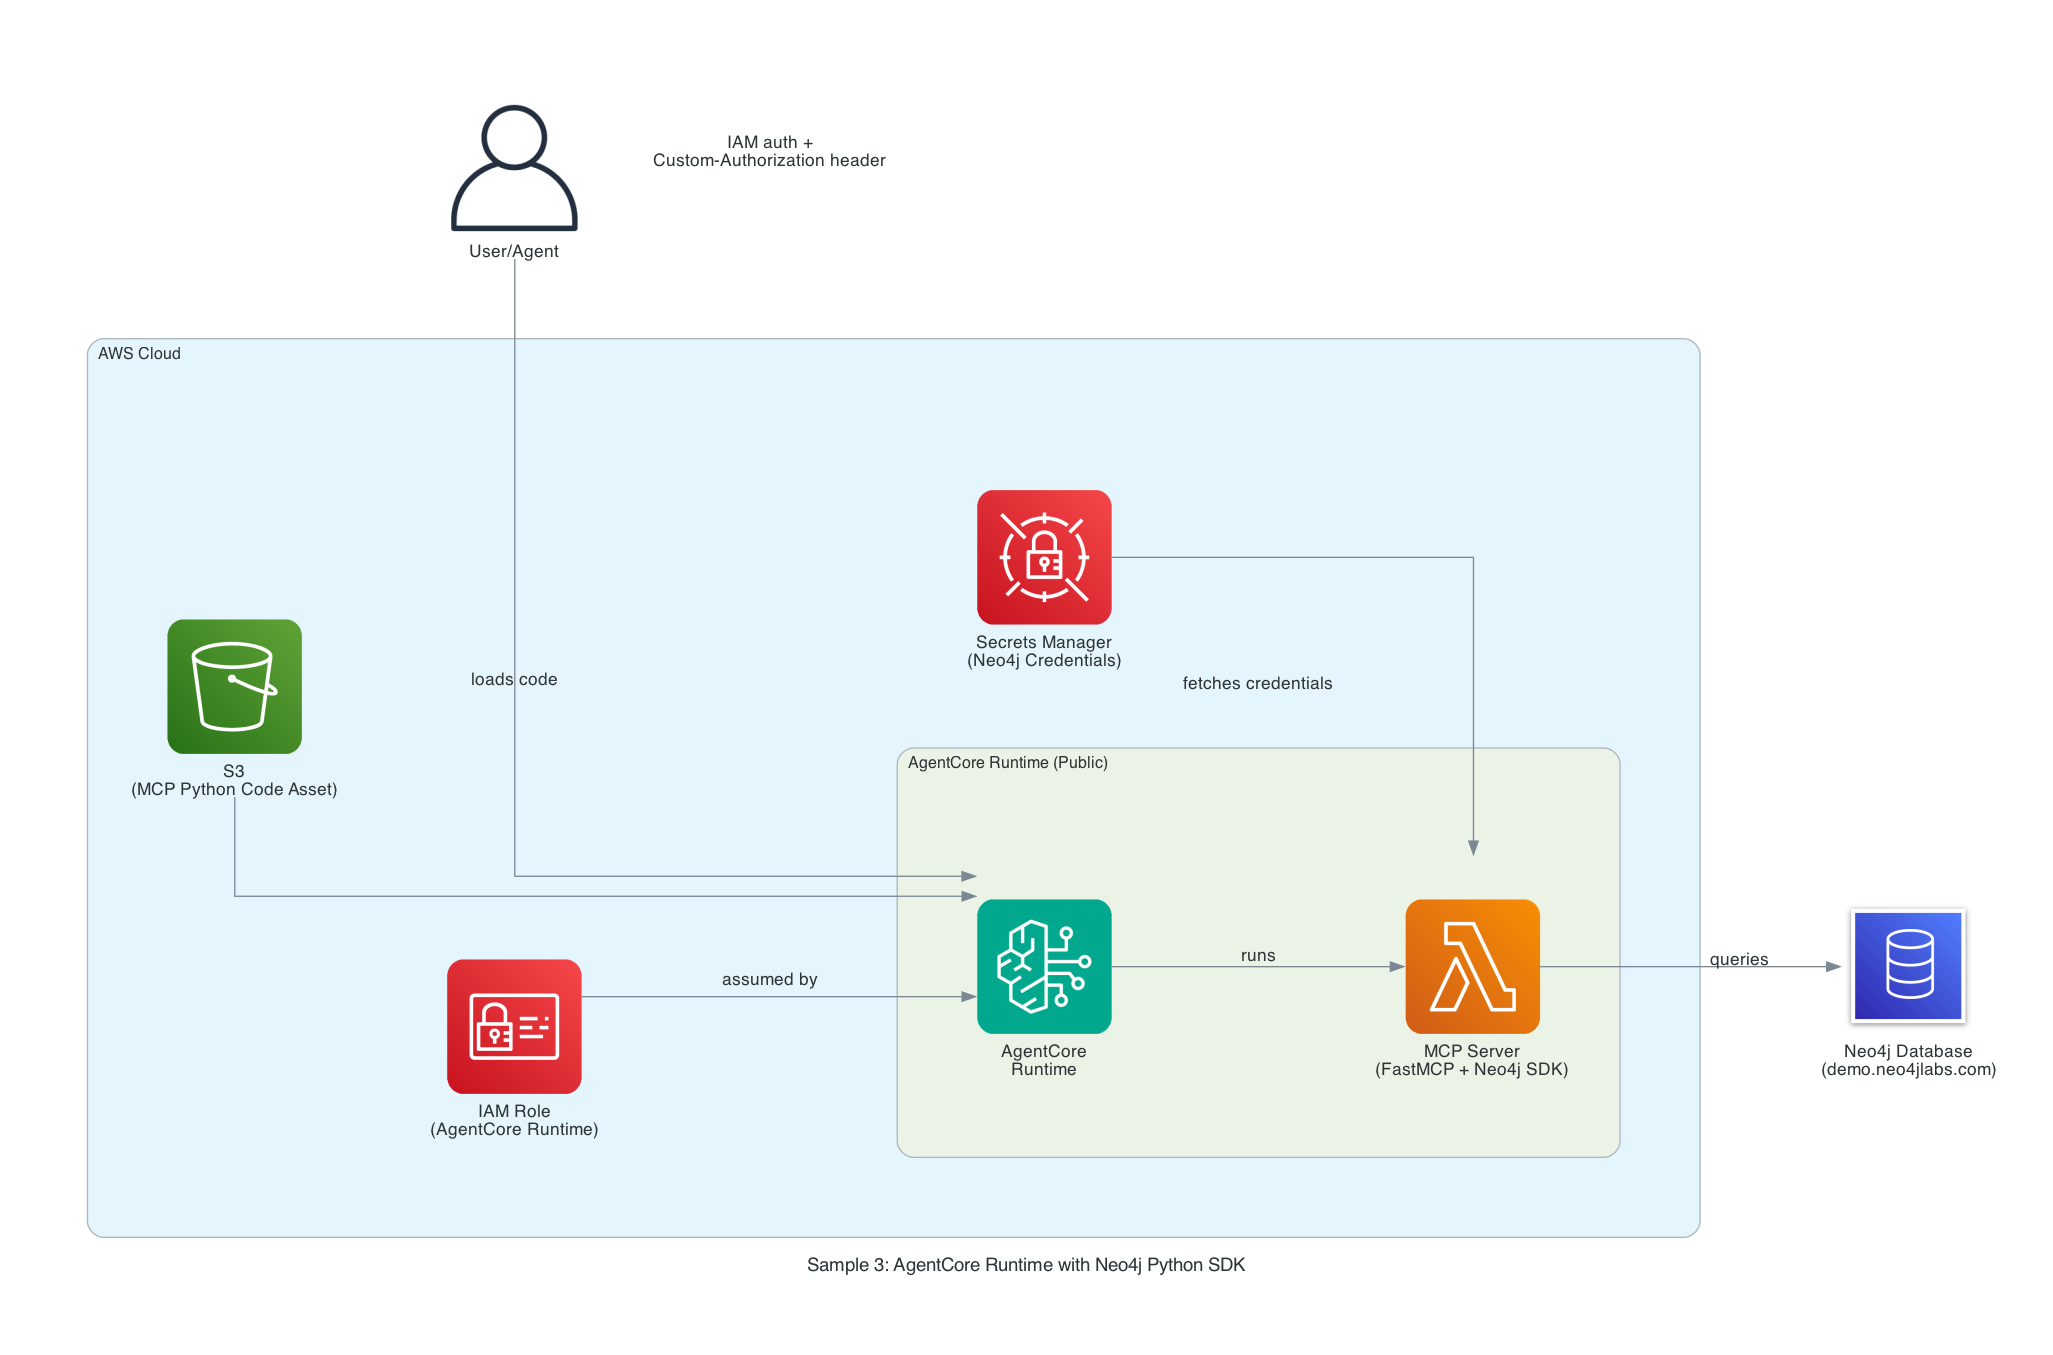
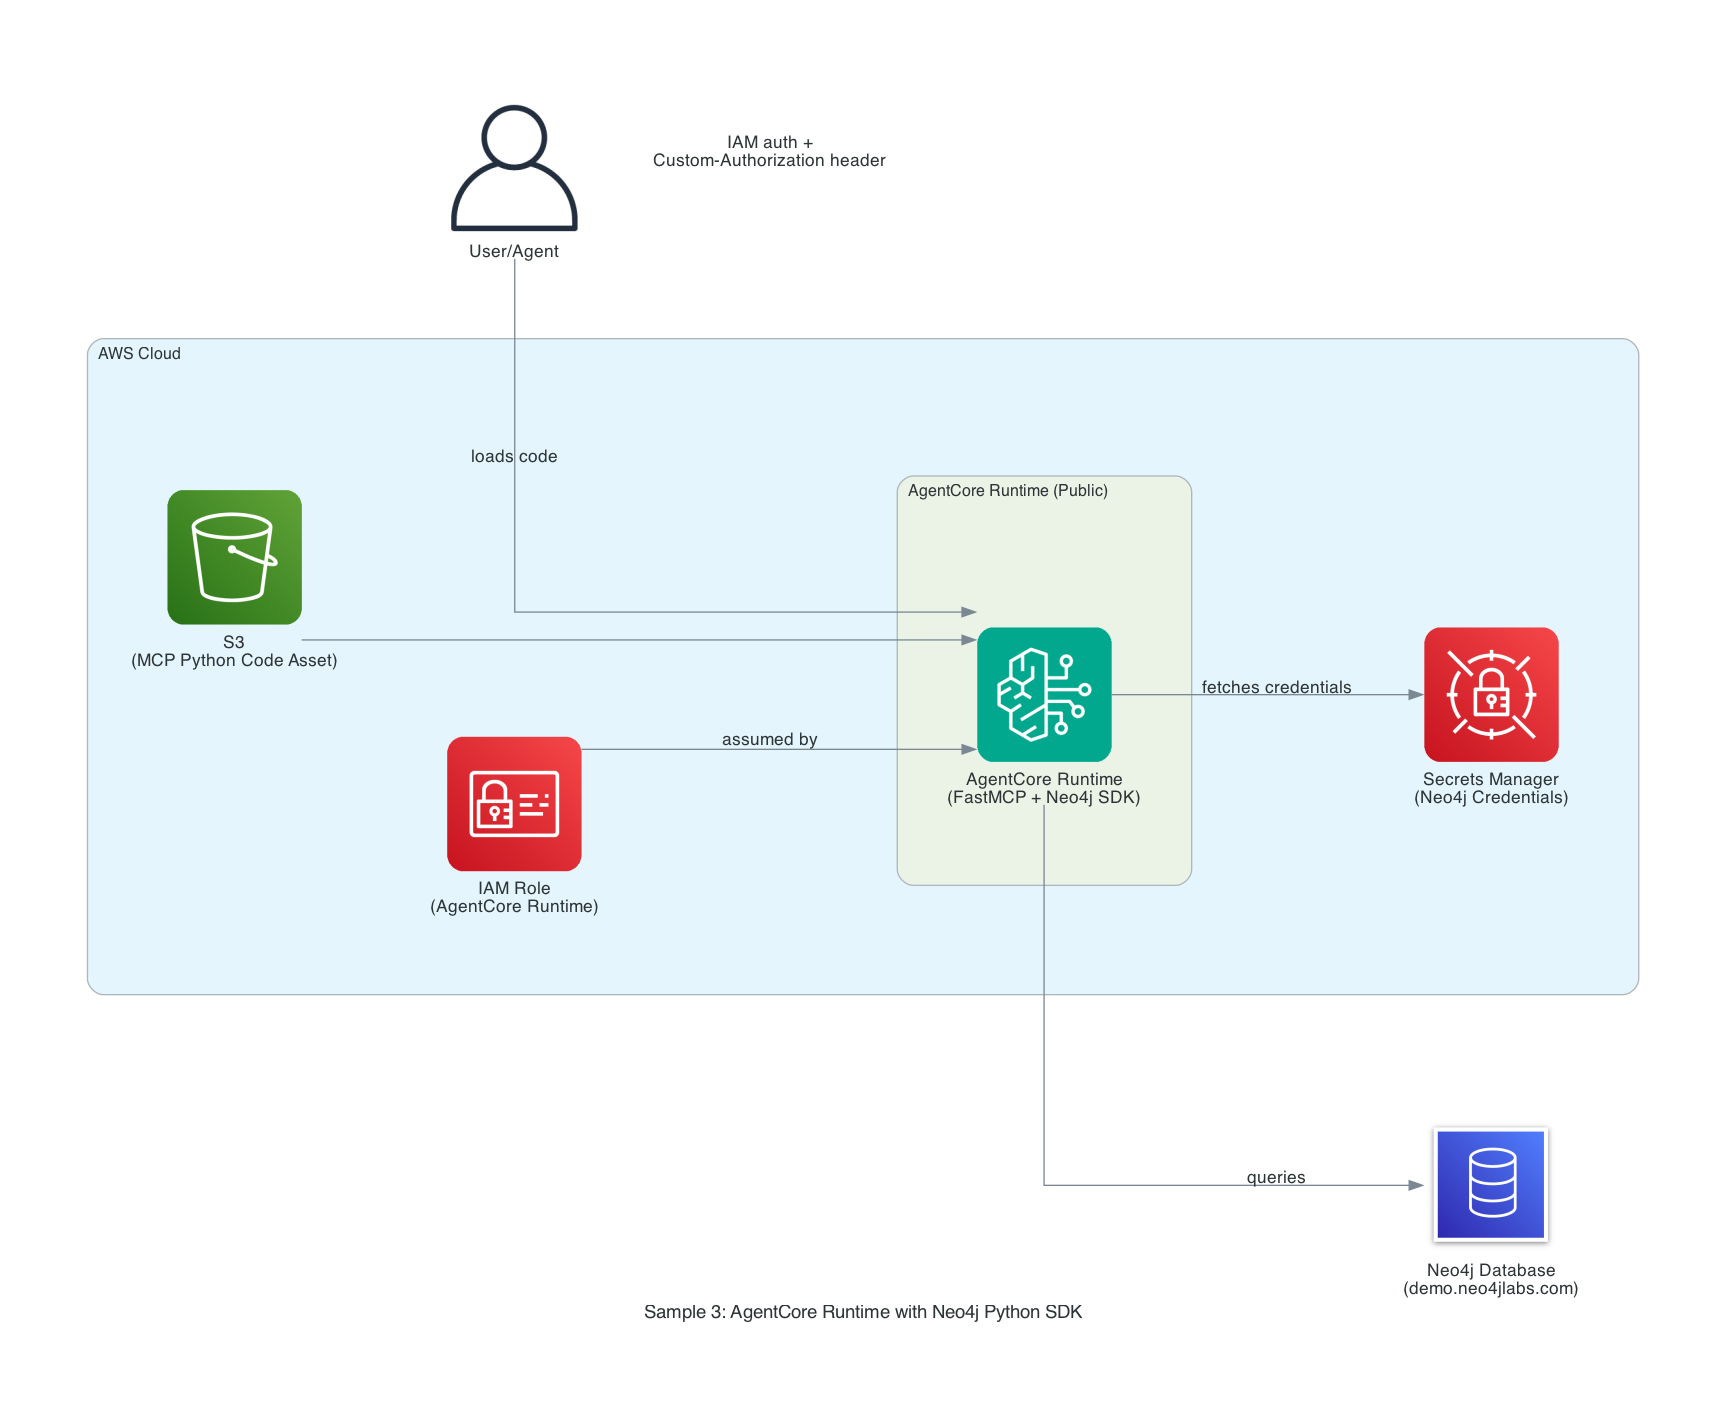
Updated the architecture diagram for sample 3 Referenced the diagram in Readme

diff --git a/aws-agentcore/samples/3-mcp-runtime-neo4j-sdk/README.md b/aws-agentcore/samples/3-mcp-runtime-neo4j-sdk/README.md
@@ -24,6 +24,8 @@ Instead of using a pre-built Docker image, the MCP server is written as a Python
 
 ## Architecture Design
 
+![Architecture Diagram](generated-diagrams/sample3_architecture.png)
+
 ### Components
 
 1. **AWS AgentCore Runtime**
